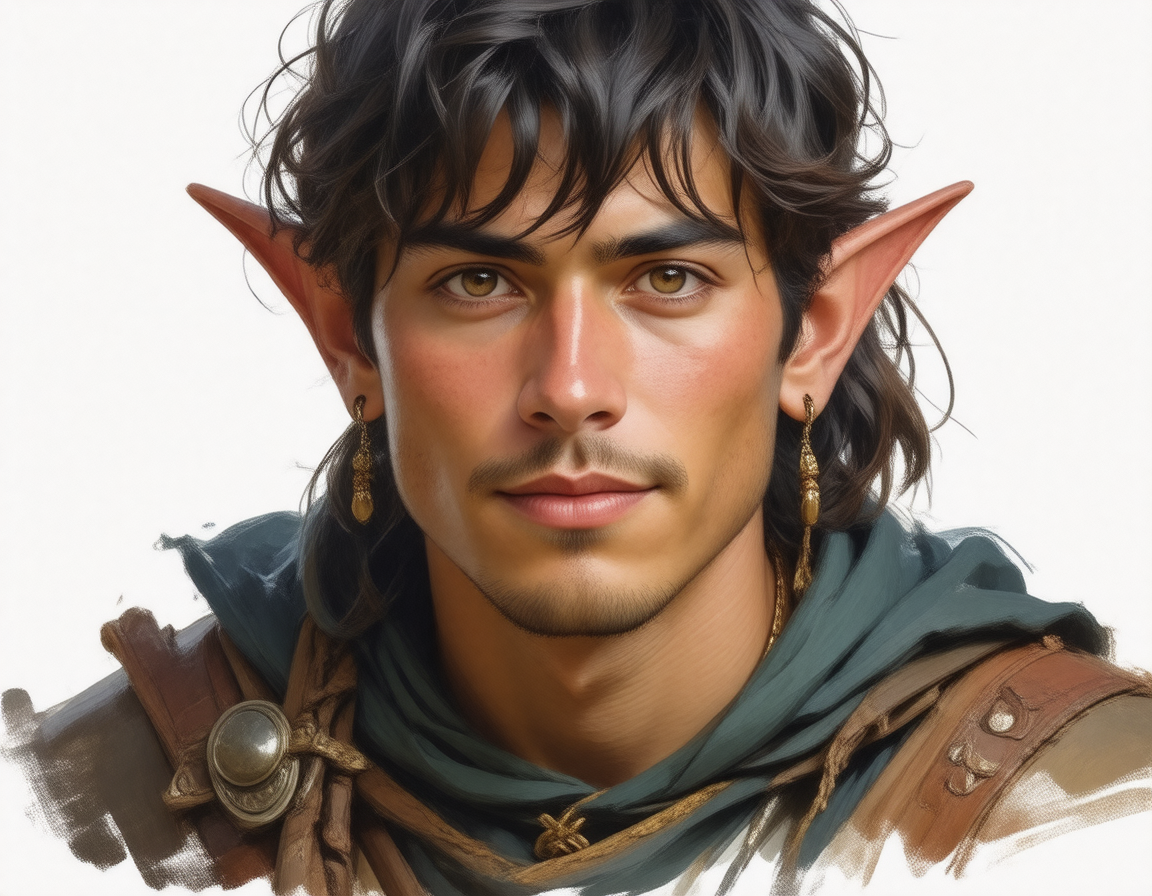
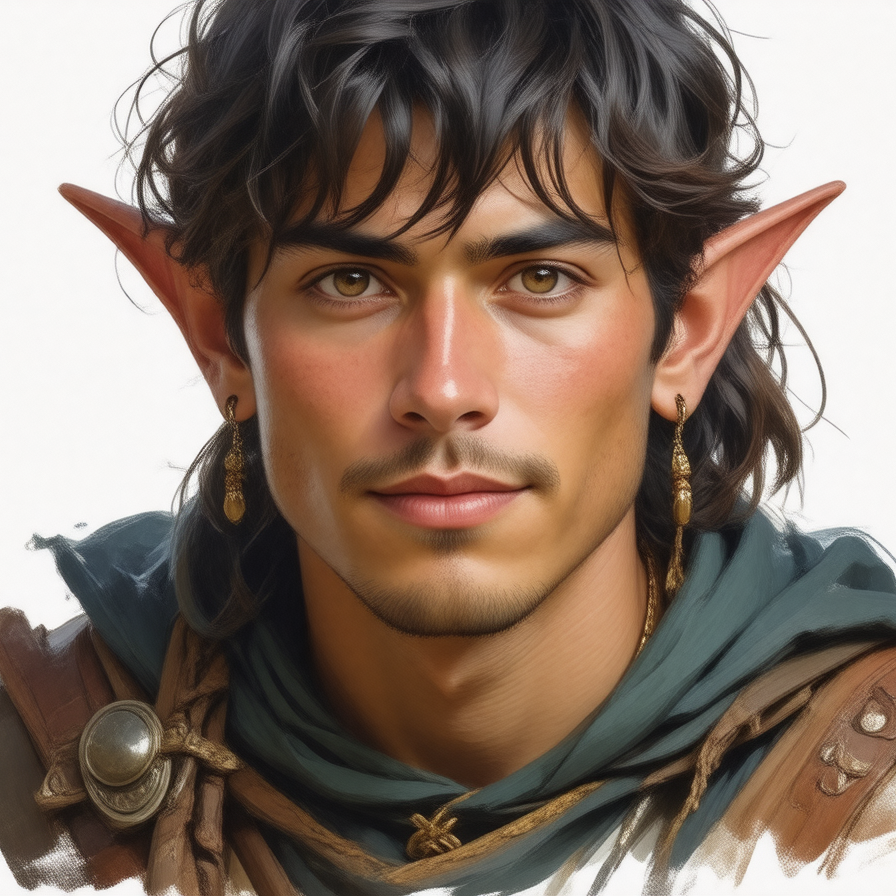
add image post

diff --git a/lib/api.ts b/lib/api.ts
@@ -26,6 +26,13 @@ export function getPostBySlug(slug: string, fields: string[] = []) {
     if (typeof data[field] !== 'undefined') {
       items[field] = data[field]
     }
+
+    if (field === 'image') {
+      items[field] = {
+        ...data[field],
+        url: formatImageUrl(data[field]?.url)
+      }
+    }
   })
   return items
 }
@@ -34,13 +41,19 @@ function parseFileToObj(pathToObj: string) {
   const fileContents = fs.readFileSync(pathToObj, 'utf8')
   const { data, content } = matter(fileContents)
   data['content'] = content
-
   // modify obj
   if (typeof data['excerpt'] === 'undefined') {
     data['excerpt'] = getMDExcerpt(content, 500);
   }
   if (typeof data['title'] === 'undefined') {
     data['title'] = decodeURI(path.basename(pathToObj, '.md'))
+  }
+  if (typeof data['image'] === 'object') {
+    data['image'] = {
+      url: data['image'].url,
+      alt: data['image'].alt,
+      type: data['image'].type,
+    }
   }
   if (typeof data['date'] === 'object') {
     data['date'] = data['date']?.toISOString()
@@ -106,4 +119,9 @@ export function updateMarkdownLinks(markdown: string, currSlug: string) {
     return m;
   });
   return markdown
+}
+
+function formatImageUrl(url: string): string {
+  if (!url) return url;
+  return `/md_assets%5C${url.replace("/", "%5C")}`
 }

diff --git a/components/blog/post-single.tsx b/components/blog/post-single.tsx
@@ -3,7 +3,6 @@ import Author from "../../interfaces/author";
 import Backlinks from "../misc/backlinks";
 import PostBody from "./post-body";
 import PostMeta from "./post-meta";
-import Status from "../../interfaces/status";
 
 type Props = {
   title: string;
@@ -50,7 +49,7 @@ function PostSingle({
                   image && <div className="flex justify-center">
                     <img
                       alt={image.alt}
-                      className="h-40 w-auto"
+                      className="h-40 w-auto rounded-full cropped border-2"
                       src={image.url}
                     />
                   </div>
@@ -74,7 +73,7 @@ function PostSingle({
                 </div>
 
                 {/* Sidebar */}
-                <aside className="relative lg:block lg:w-72 lg:ml-20 shrink-0">
+                <aside className="relative pt-8 lg:pt-0 lg:block lg:w-72 lg:ml-20 shrink-0">
                   <div>
                     <h4 className="text-lg font-bold leading-snug tracking-tight mb-4">
                       Backlinks

diff --git a/common_md/update-publish-settings-github-actions.md b/common_md/update-publish-settings-github-actions.md
@@ -2,7 +2,7 @@
 title: Update the Publish Settings
 status: Herido
 image:
- url: "../attachments/faiorath.png"
+ url: "attachments/faiorath.png"
  type: "portrait"
  alt: "Retrato de Faiorath Caledhros"
 ---
